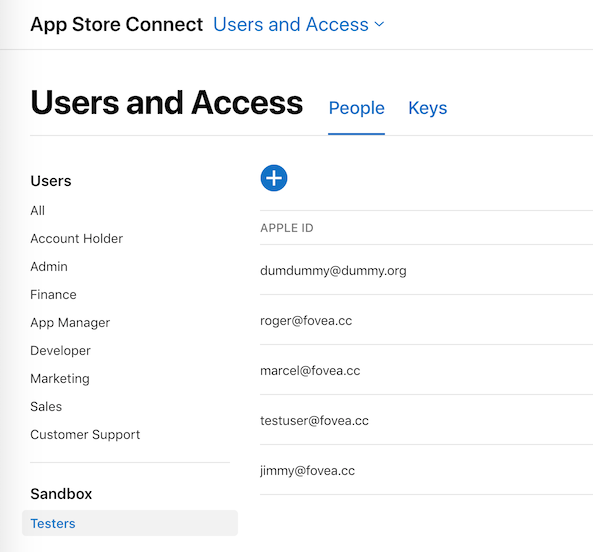
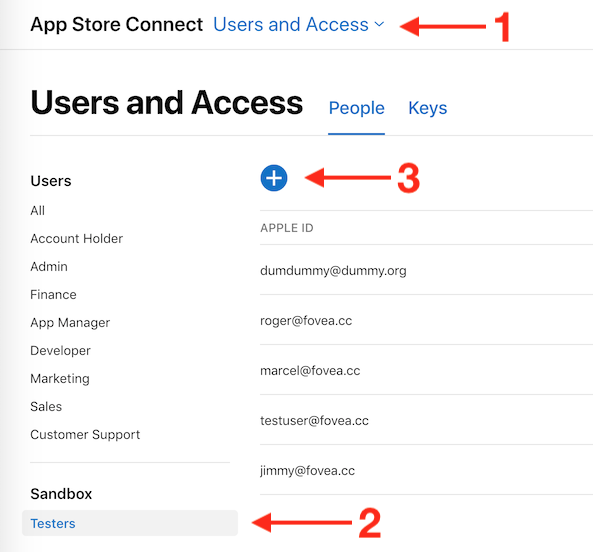
Update appstore test users section

Changed region(s): [[0.425, 0.8931, 0.6374, 0.9855], [0.516, 0.2772, 0.7285, 0.3696], [0.6678, 0.0308, 0.8803, 0.0924]]

diff --git a/sections/setup-ios-6-test-users.md b/sections/setup-ios-6-test-users.md
@@ -2,3 +2,9 @@
 
 In order to test your In-App Purchases during development, you should create some test users.
 
+You can do so from the AppStore Connect website, in the _Users & Access_ section. There in the sidebar, you should see "Sandbox > Testers". If you don't, it means you don't have enough permissions to create sandbox testers, so ask your administrator.
+
+From there, it's just a matter of hitting "+" and filling the form. While you're at it, create 2-3 test users: it will be handy for testing.
+
+![](../assets/appstore-test-users.png)
+
